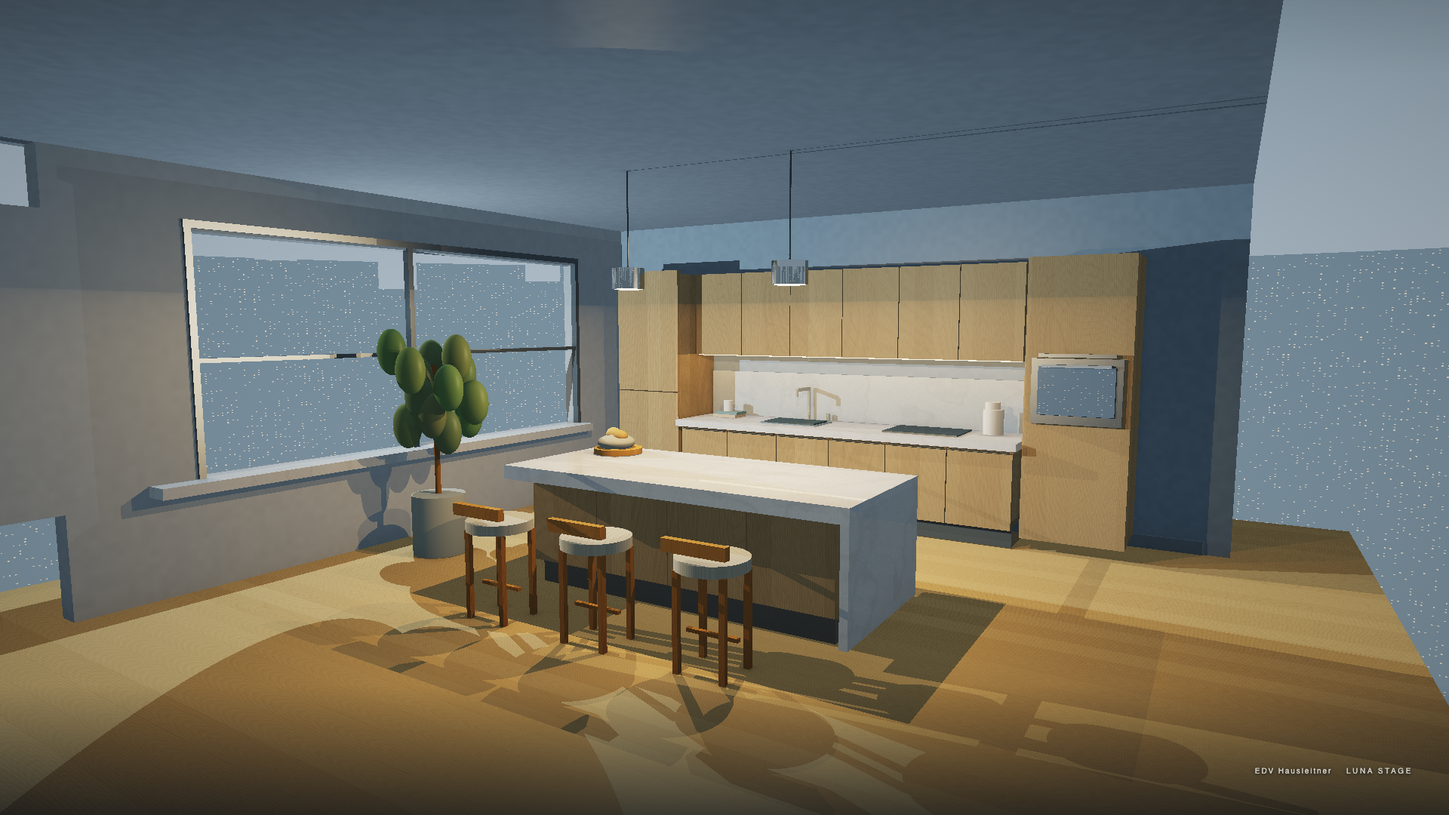
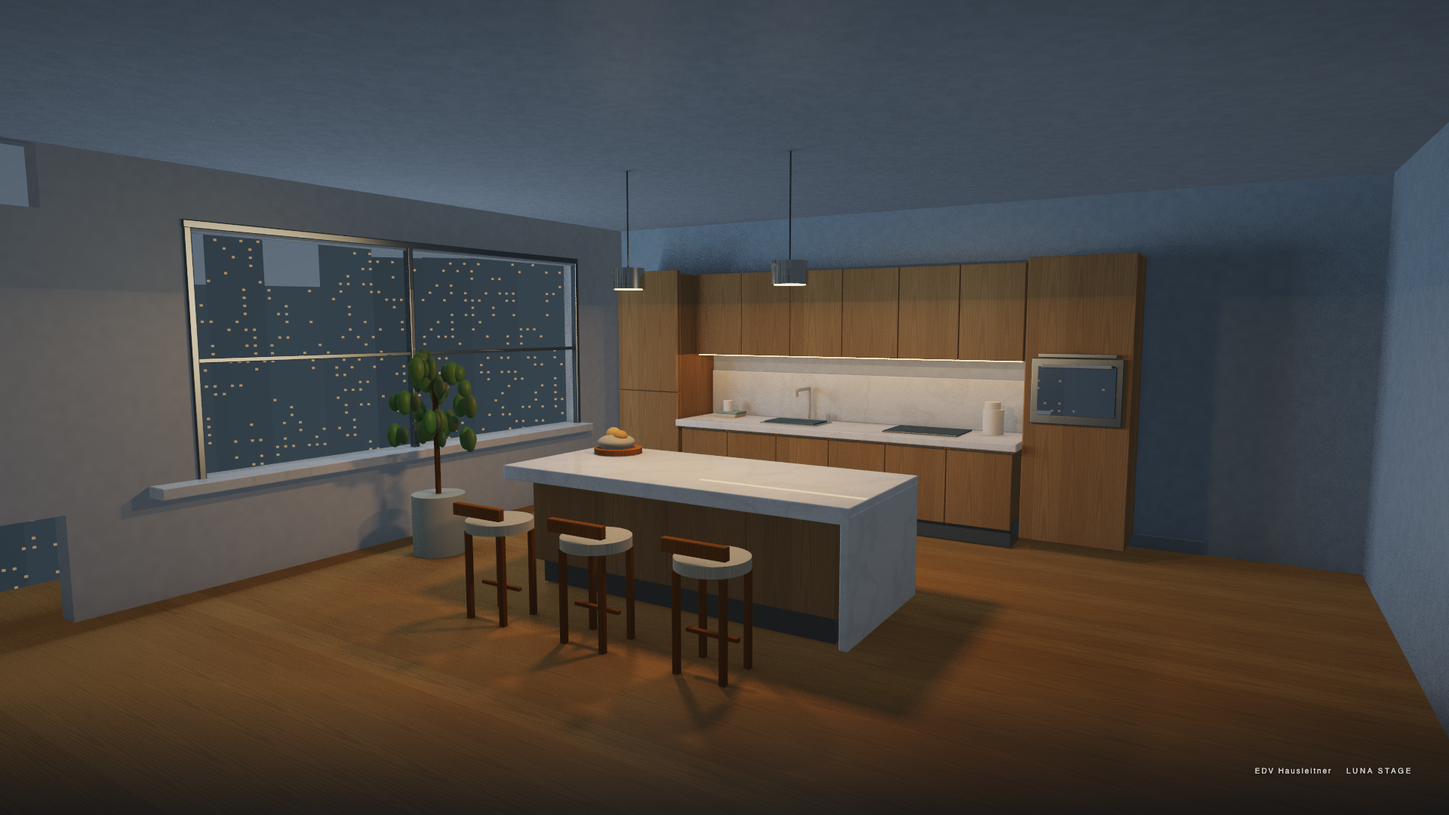
Deploy visual refinement 1 and complete interaction evidence

diff --git a/index.html b/index.html
@@ -25,15 +25,16 @@
 const $=id=>document.getElementById(id), clamp=(v,a=0,b=1)=>Math.max(a,Math.min(b,v)),mix=(a,b,t)=>a+(b-a)*t,smooth=t=>t*t*(3-2*t);
 const V={add:(a,b)=>a.map((v,i)=>v+b[i]),sub:(a,b)=>a.map((v,i)=>v-b[i]),mul:(a,s)=>a.map(v=>v*s),dot:(a,b)=>a.reduce((s,v,i)=>s+v*b[i],0),cross:(a,b)=>[a[1]*b[2]-a[2]*b[1],a[2]*b[0]-a[0]*b[2],a[0]*b[1]-a[1]*b[0]],norm:a=>{let l=Math.hypot(...a)||1;return a.map(v=>v/l)},lerp:(a,b,t)=>a.map((v,i)=>mix(v,b[i],t))};
 const Luna=window.Luna={theme:{accent:'#0078C8',navy:'#101b25',oak:'#a47d4f',chalk:'#e9e1d3'},gpu:{ready:false,backend:'Canvas2D',errors:[],frames:0,invalidate:()=>{}},cam:{},scene:{},hud:{},store:{key:'luna.stage.v1'}};
-Luna.store.read=()=>{try{const o=JSON.parse(localStorage.getItem(Luna.store.key)||'null');return o&&o.version===1?{material:o.material===1?1:0,sun:Number.isFinite(o.sun)?clamp(o.sun):.76,price:o.price===true}:null}catch{return null}};
-Luna.store.write=()=>{try{localStorage.setItem(Luna.store.key,JSON.stringify({version:1,material:Luna.scene.material,sun:Luna.scene.sun,price:Luna.scene.price}));return true}catch{return false}};
+Luna.store.read=()=>{try{const o=JSON.parse(localStorage.getItem(Luna.store.key)||'null');return o&&o.version===1?{material:o.material===1?1:0,sun:Number.isFinite(o.sun)?clamp(o.sun):.76,price:o.price===true,chapter:Number.isInteger(o.chapter)?clamp(o.chapter,0,5):0}:null}catch{return null}};
+Luna.store.write=()=>{try{localStorage.setItem(Luna.store.key,JSON.stringify({version:1,material:Luna.scene.material,sun:Luna.scene.sun,price:Luna.scene.price,chapter:Luna.cam.chapter}));return true}catch{return false}};
 const saved=Luna.store.read();Object.assign(Luna.scene,{family:'Berger',runMM:3600,priceEUR:18740,vat:20,week:38,material:saved?.material||0,sun:saved?.sun??.76,price:saved?.price||false,ceo:false,objects:[]});
 /* Primitive ABI: centre.xyz/type, half-extents.xyz/material, albedo.xyz/shadow. 0 box, 1 ellipsoid, 2 Y-cylinder. */
 const O=Luna.scene.objects;function box(c,s,m=1,col=[1,1,1],shadow=1){O.push({c,s,m,col,type:0,shadow});return O.length-1}function ell(c,s,m,col){O.push({c,s,m,col,type:1,shadow:1})}function cyl(c,r,h,m,col=[1,1,1]){O.push({c,s:[r,h/2,r],m,col,type:2,shadow:1})}
 // Materials: plaster 1, oak/variant 2, stone 3, charcoal 4, metal 5, emission 6, ceramic 7, fixed oak 8, city 9, fabric 10.
 box([0,-.07,.7],[4.5,.07,5.2],8,[.72,.68,.57],0);
-box([0,1.65,-2.86],[3.5,1.65,.07],1,[.28,.33,.35],0);
-box([0,3.27,.0],[3.5,.06,4.5],1,[.38,.40,.40],0);
+box([.5,1.65,-2.86],[4.0,1.65,.07],1,[.28,.33,.35],0);
+box([.5,3.27,.0],[4.0,.06,4.5],1,[.38,.40,.40],0);
+box([4.48,1.65,1.5],[.06,1.65,4.35],1,[.26,.30,.32],0);
 // Window wall, open light aperture. No transparent box covering the view.
 box([-3.33,.40,.1],[.09,.40,3.1],1,[.52,.53,.50],0);box([-3.33,3.01,.1],[.09,.28,3.1],1,[.52,.53,.50],0);
 box([-3.33,1.77,-2.5],[.09,1.02,.58],1,[.52,.53,.5],0);box([-3.33,1.77,3.1],[.09,1.02,.76],1,[.52,.53,.5],0);
@@ -79,7 +80,7 @@ for(const x of [-.62,.79]){cyl([x,2.83,.39],.006,.80,4,[.08,.10,.1]);cyl([x,2.39
 for(const x of [-.85,.02,.9]){for(const dx of [-.16,.16])for(const dz of [-.14,.14])box([x+dx,.31,1.56+dz],[.019,.31,.019],8,[.46,.30,.15]);box([x,.22,1.56],[.18,.012,.016],8,[.46,.30,.15]);cyl([x,.66,1.56],.23,.07,10,[.57,.51,.38]);box([x,.78,1.75],[.218,.04,.025],8,[.55,.38,.20]);}
 // Leafy olive tree by the window, modelled geometry rather than an image.
 cyl([-2.55,.27,.70],.23,.53,7,[.42,.42,.34]);cyl([-2.55,1.00,.70],.024,1.36,8,[.32,.23,.12]);
-for(let i=0;i<15;i++){const a=i*2.4,r=.14+(i%3)*.10,y=1.1+i*.05;ell([-2.55+Math.cos(a)*r,y,.70+Math.sin(a)*r],[.15,.20,.10],7,[.17+(i%2)*.03,.23+(i%3)*.025,.11]);}
+for(let i=0;i<42;i++){const a=i*2.39996,r=.07+(i%7)*.047,y=1.03+(i%13)*.057;ell([-2.55+Math.cos(a)*r,y,.70+Math.sin(a)*r],[.043+(i%3)*.014,.075+(i%2)*.030,.033+(i%4)*.011],7,[.12+(i%3)*.02,.19+(i%4)*.022,.075]);}
 // Small skirting line makes the wall contact explicit.
 box([0,.062,-2.766],[3.30,.06,.012],1,[.25,.28,.28]);
 Luna.scene.bounds=()=>({runMM:3600,modules:6,moduleMM:600,objects:O.length});
@@ -88,7 +89,7 @@ Luna.cam.chapters=[
 {name:'Holz',eye:[1.00,1.26,2.48],to:[-.46,.72,.25],end:[.62,1.17,2.02],sun:.06,fov:45},
 {name:'Abend',eye:[3.12,1.94,4.8],to:[-.23,1.27,-.48],end:[2.88,1.87,4.5],sun:.94,fov:51},
 {name:'Oberfläche',eye:[2.50,1.74,3.80],to:[.0,1.10,-.48],end:[2.16,1.73,3.63],sun:.30,fov:51},
-{name:'Zahl',eye:[2.32,2.65,3.5],to:[.12,.91,.38],end:[2.03,2.45,3.21],sun:.72,fov:43},
+{name:'Zahl',eye:[.94,2.70,3.47],to:[.12,.97,.25],end:[.70,2.58,3.25],sun:.79,fov:47},
 {name:'Stille',eye:[3.4,2.03,5.48],to:[-.30,1.32,-.52],end:[3.4,2.03,5.48],sun:.84,fov:53}
 ];
 Object.assign(Luna.cam,{chapter:0,time:0,duration:48,playing:!matchMedia('(prefers-reduced-motion: reduce)').matches,eye:[3.7,1.92,5.95],to:[-.25,1.30,-.60],fov:51,manual:false,transition:null});
@@ -115,11 +116,11 @@ let woodPattern=null;function makeWood(){let c=document.createElement('canvas');
 makeWood();
 Luna.gpu.drawStill=(canvas,chapter=Luna.cam.chapter,thumb=false)=>{const g=canvas.getContext('2d'),w=canvas.width,h=canvas.height,old={eye:Luna.cam.eye,to:Luna.cam.to,fov:Luna.cam.fov};if(thumb){Luna.cam.eye=cs[chapter].eye;Luna.cam.to=cs[chapter].to;Luna.cam.fov=cs[chapter].fov}const evening=cs[chapter].sun,m=chapter===3?1:Luna.scene.material;let bg=g.createLinearGradient(0,0,w,h);bg.addColorStop(0,evening>.5?'#647780':'#bacad0');bg.addColorStop(1,'#1a2630');g.fillStyle=bg;g.fillRect(0,0,w,h);const faces=[];for(const o of O){let s=o.s,c=o.c;const vertices=[[-1,-1,-1],[1,-1,-1],[1,1,-1],[-1,1,-1],[-1,-1,1],[1,-1,1],[1,1,1],[-1,1,1]].map(p=>V.add(c,p.map((v,j)=>v*s[j])));for(const [ids,n] of [[[4,5,6,7],[0,0,1]],[[1,0,3,2],[0,0,-1]],[[0,4,7,3],[-1,0,0]],[[5,1,2,6],[1,0,0]],[[7,6,2,3],[0,1,0]],[[0,1,5,4],[0,-1,0]]]){const p=ids.map(i=>Luna.cam.project(vertices[i],w,h));if(p.some(v=>v.z<.1))continue;if(V.dot(n,V.sub(Luna.cam.eye,c))<0)continue;faces.push({p,d:p.reduce((s,v)=>s+v.z,0)/4,o,n})}}faces.sort((a,b)=>b.d-a.d);for(const f of faces){const {o,n,p}=f;let col=o.col,wood=o.m===8||(o.m===2&&!m);if(o.m===2)col=m?[.72,.70,.63]:[.62,.45,.28];if(o.m===3)col=o.col;if(o.m===6)col=[1,.78,.40];let k=(n[1]>.5?1:n[0]<-.5?.88:.69)*(1-evening*.27);g.beginPath();p.forEach((v,i)=>i?g.lineTo(v.x,v.y):g.moveTo(v.x,v.y));g.closePath();g.fillStyle='rgb('+col.map(v=>Math.round(clamp(v*k)*255)).join(',')+')';g.fill();if(wood){g.save();g.clip();g.globalAlpha=.36;g.fillStyle=g.createPattern(woodPattern,'repeat');g.fillRect(0,0,w,h);g.restore()}g.strokeStyle='rgba(9,17,21,.15)';g.lineWidth=.45;g.stroke()}if(!thumb){g.fillStyle='rgba(7,15,24,.10)';g.fillRect(0,0,w,h)}Luna.cam.eye=old.eye;Luna.cam.to=old.to;Luna.cam.fov=old.fov};
 function sizeStill(){let c=$('still');c.width=Math.min(1920,innerWidth*devicePixelRatio);c.height=Math.min(1080,innerHeight*devicePixelRatio);Luna.gpu.drawStill(c)}
-Luna.cam.apply(0);if(params.has('chapter'))Luna.cam.goto(clamp(Number(params.get('chapter'))-1,0,5),false);if(params.has('paused'))Luna.cam.playing=false;if(forcedFallback)Luna.cam.playing=false;
+Luna.cam.apply(0);if(saved&&!params.has('chapter')){Luna.cam.goto(saved.chapter,false);Object.assign(Luna.scene,{material:saved.material,sun:saved.sun,price:saved.price});Luna.cam.manual=true;}if(params.has('chapter'))Luna.cam.goto(clamp(Number(params.get('chapter'))-1,0,5),false);if(params.has('paused'))Luna.cam.playing=false;if(forcedFallback)Luna.cam.playing=false;
 sizeStill();Luna.gpu.firstImageMS=performance.now();requestAnimationFrame(()=>{Luna.gpu.firstPaintMS=performance.now()});
 /* A glyph texture is sampled in world coordinates by WGSL, so inscriptions receive room lighting and perspective. */
 const atlas=document.createElement('canvas');atlas.width=2048;atlas.height=1024;const ag=atlas.getContext('2d');
-function drawAtlas(){ag.clearRect(0,0,2048,1024);ag.fillStyle='#fff';ag.font='400 22px Segoe UI, Arial';ag.letterSpacing='5px';ag.fillText('F A M I L I E   B E R G E R',90,98);ag.font='300 158px Segoe UI, Arial';ag.fillText('18.740 €',80,278);ag.letterSpacing='0px';ag.font='400 34px Segoe UI, Arial';ag.fillText('inkl. 20 % USt · Montage KW38',90,357);ag.fillStyle='#999';ag.fillRect(90,401,1370,2);ag.font='400 24px Segoe UI, Arial';ag.fillText('E I N   R A U M .   I H R   Z U H A U S E .',90,456);ag.fillStyle='#fff';ag.font='300 66px Segoe UI, Arial';ag.fillText('31 %',90,686);ag.font='400 25px Segoe UI, Arial';ag.fillText('Marge · intern',90,734);ag.font='400 37px Segoe UI, Arial';ag.fillText('F A M I L I E   B E R G E R',80,881);ag.font='400 24px Segoe UI, Arial';ag.fillText('EICHE NATUR  /  3 600 mm',80,932)}drawAtlas();
+function drawAtlas(){ag.clearRect(0,0,2048,1024);ag.fillStyle='#fff';ag.font='400 22px Segoe UI, Arial';ag.letterSpacing='5px';ag.fillText('F A M I L I E   B E R G E R',90,98);ag.font='300 181px Segoe UI, Arial';ag.fillText('18.740 €',80,278);ag.letterSpacing='0px';ag.font='400 49px Segoe UI, Arial';ag.fillText('inkl. 20 % USt · Montage KW38',90,357);ag.fillStyle='#999';ag.fillRect(90,401,1370,2);ag.font='400 24px Segoe UI, Arial';ag.fillText('E I N   R A U M .   I H R   Z U H A U S E .',90,456);ag.fillStyle='#fff';ag.font='300 85px Segoe UI, Arial';ag.fillText('31 %',90,686);ag.font='400 36px Segoe UI, Arial';ag.fillText('Marge · intern',90,734);ag.font='400 37px Segoe UI, Arial';ag.fillText('F A M I L I E   B E R G E R',80,881);ag.font='400 24px Segoe UI, Arial';ag.fillText('EICHE NATUR  /  3 600 mm',80,932)}drawAtlas();
 const shader=`
 struct Params {eye:vec4f, forward:vec4f, right:vec4f, up:vec4f, view:vec4f, state:vec4f};
 struct Obj {centre:vec4f, size:vec4f, col:vec4f};
@@ -128,6 +129,8 @@ struct Hit {t:f32, id:i32, normal:vec3f};
 @group(0) @binding(1) var<storage,read> objects:array<Obj>;
 @group(0) @binding(2) var lettering:texture_2d<f32>;
 @group(0) @binding(3) var letterSampler:sampler;
+@group(0) @binding(4) var history:texture_2d<f32>;
+var<private> sampleSeed:vec3f;
 @vertex fn vs(@builtin(vertex_index) i:u32)->@builtin(position) vec4f {var p=array<vec2f,3>(vec2f(-1,-1),vec2f(3,-1),vec2f(-1,3));return vec4f(p[i],0,1);}
 fn hash(p:vec3f)->f32 {return fract(sin(dot(p,vec3f(127.1,311.7,74.7)))*43758.5453);}
 fn noise(p:vec3f)->f32{let i=floor(p);let f=fract(p);let a=f*f*(3.-2.*f);return mix(mix(mix(hash(i),hash(i+vec3f(1,0,0)),a.x),mix(hash(i+vec3f(0,1,0)),hash(i+vec3f(1,1,0)),a.x),a.y),mix(mix(hash(i+vec3f(0,0,1)),hash(i+vec3f(1,0,1)),a.x),mix(hash(i+vec3f(0,1,1)),hash(i+vec3f(1,1,1)),a.x),a.y),a.z);}
@@ -136,22 +139,29 @@ if(kind==1){let q=p/s;let d=rd/s;let a=dot(d,d);let b=dot(q,d);let cc=dot(q,q)-1
 if(kind==2){let a=dot(rd.xz,rd.xz);let b=dot(p.xz,rd.xz);let cc=dot(p.xz,p.xz)-s.x*s.x;let h=b*b-a*cc;var t=1e5;var n=vec3f(0,1,0);if(h>=0.&&a>.00001){let tt=(-b-sqrt(h))/a;let y=p.y+tt*rd.y;if(tt>.0005&&abs(y)<s.y){t=tt;n=normalize(vec3f(p.x+tt*rd.x,0,p.z+tt*rd.z));}}if(abs(rd.y)>.00001){let tt=(select(-s.y,s.y,rd.y<0.)-p.y)/rd.y;let q=p.xz+tt*rd.xz;if(tt>.0005&&tt<t&&dot(q,q)<s.x*s.x){t=tt;n=vec3f(0,select(-1.,1.,rd.y<0.),0);}}return vec4f(t,n);}
 let inv=1./(rd+vec3f(.0000001));let a=(-s-p)*inv;let b=(s-p)*inv;let near=min(a,b);let far=max(a,b);let tn=max(max(near.x,near.y),near.z);let tf=min(min(far.x,far.y),far.z);if(tf<max(tn,.0005)){return vec4f(1e5,0,0,0);}var t=tn;if(t<.0005){t=tf;}let q=(p+rd*t)/s;var n=vec3f(0,0,sign(q.z));if(abs(q.x)>abs(q.z)&&abs(q.x)>abs(q.y)){n=vec3f(sign(q.x),0,0);}else if(abs(q.y)>abs(q.z)){n=vec3f(0,sign(q.y),0);}return vec4f(t,n);}
 fn trace(ro:vec3f,rd:vec3f,limit:f32,shadows:bool)->Hit{var hit=Hit(limit,-1,vec3f(0));for(var i=0u;i<arrayLength(&objects);i++){let o=objects[i];if(shadows&&o.col.w<.5){continue;}let h=intersect(ro,rd,o);if(h.x<hit.t){hit=Hit(h.x,i32(i),h.yzw);}}return hit;}
-fn sky(rd:vec3f)->vec3f{let day=u.view.z;let y=clamp(rd.y*.7+.43,0.,1.);var c=mix(mix(vec3f(.91,.79,.58),vec3f(.34,.57,.73),y),mix(vec3f(.27,.34,.43),vec3f(.035,.10,.19),y),day);if(rd.y<.07){let k=floor(atan2(rd.z,rd.x)*25.);let height=.025+hash(vec3f(k,2,3))*.11;let building=step(rd.y,height);c=mix(c,mix(vec3f(.30,.37,.39),vec3f(.048,.084,.12),day),building*.84);let wx=fract(atan2(rd.z,rd.x)*230.);let wy=fract(rd.y*390.);let lit=step(.81,hash(vec3f(floor(atan2(rd.z,rd.x)*230.),floor(rd.y*390.),7)));c+=vec3f(.69,.47,.22)*lit*step(.26,wx)*step(wx,.58)*step(.3,wy)*step(wy,.64)*building*day*.9;}return c;}
-fn wood(p:vec3f,n:vec3f,mat:i32)->vec3f{var uv=vec2f(p.x,p.y);if(abs(n.x)>.5){uv=vec2f(p.z,p.y);}if(n.y>.5){uv=vec2f(p.x,p.z);if(mat==8){uv=vec2f(p.z,p.x);}}let board=floor(uv.x/.19);let offset=hash(vec3f(board,f32(mat),1));let x=uv.x*69.+offset*7.;let y=uv.y;let warp=noise(vec3f(uv.x*3.,y*.85,offset))*4.6+sin(y*2.1+offset*9.)*.6;let grain=sin((x+warp)*5.7)*.5+.5;let fine=pow(max(0.,sin((x+warp)*31.)),14.);let pore=noise(vec3f(uv.x*650.,y*14.,offset));let ring=pow(grain,9.);let knot=sin(length(vec2f((uv.x-(board*.19+.095))*45.,(y-.4-offset)*4.))*19.);var c=mix(vec3f(.27,.151,.066),vec3f(.59,.401,.203),.64+offset*.17);c*=.88+.14*grain-.10*ring-.09*fine+.075*pore+.028*knot;if(mat==8){c*=1.13;let seam=smoothstep(.0,.008,min(fract(uv.x/.19),1.-fract(uv.x/.19)));c*=.82+.18*seam;}return c;}
-fn baseColor(p:vec3f,n:vec3f,id:i32)->vec3f {let o=objects[id];let m=i32(o.size.w);var c=o.col.xyz;if(m==2){c=mix(wood(p,n,m),vec3f(.65,.615,.532),u.view.w);}if(m==8){c=wood(p,n,m)*o.col.xyz*1.8;}if(m==1){c*=.94+.09*noise(p*19.)+.026*noise(p*170.);}if(m==3){let v=noise(p*3.6)+noise(p*11.)*.28;let veins=pow(abs(sin(p.x*3.+p.z*3.2+v*5.)),24.);c*=.87+.095*noise(p*95.)+.07*v-.068*veins;}if(m==10){let weave=sin(p.x*510.)*sin(p.z*510.);c*=.88+.10*weave;}return c;}
+fn sky(rd:vec3f)->vec3f{let day=u.view.z;let y=clamp(rd.y*.75+.45,0.,1.);var c=mix(mix(vec3f(.69,.64,.50),vec3f(.30,.46,.57),y),mix(vec3f(.052,.078,.12),vec3f(.007,.021,.052),y),smoothstep(.35,1.,day));
+let az=atan2(rd.z,rd.x);let k=floor(az*19.);let height=.014+hash(vec3f(k,2,3))*.11;
+if(rd.y<height){let distance=hash(vec3f(k,4,8));c=mix(vec3f(.24,.29,.30),vec3f(.012,.025,.040),day)*(.65+distance*.28);let grid=vec2f(az*130.,rd.y*120.);let f=fract(grid);let lit=step(.78,hash(vec3f(floor(grid),7)));let pane=smoothstep(.17,.23,f.x)*(1.-smoothstep(.50,.59,f.x))*smoothstep(.24,.32,f.y)*(1.-smoothstep(.51,.60,f.y));c+=vec3f(.32,.18,.062)*lit*pane*day;}
+return c;}
+fn wood(p:vec3f,n:vec3f,mat:i32)->vec3f{var uv=vec2f(p.x,p.y);if(abs(n.x)>.5){uv=vec2f(p.z,p.y);}if(n.y>.5){uv=vec2f(p.x,p.z);if(mat==8){uv=vec2f(p.z,p.x);}}
+let board=floor(uv.x/.22);let offset=hash(vec3f(board,f32(mat),1));let bx=fract(uv.x/.22)-.5;let yy=uv.y+offset*3.;let warp=noise(vec3f(uv.x*4.,yy*.95,offset))*1.2+sin(yy*2.0+offset*12.)*.14;
+let rings=sqrt(pow(bx*2.4+warp*.16,2.)+pow(yy*.24,2.))*39.;let grain=.5+.5*sin(rings+noise(vec3f(uv.x*80.,yy*3.,offset))*.65);let pores=pow(max(0.,sin(uv.x*1600.+warp*25.)),14.);let variation=noise(vec3f(uv.x*250.,yy*8.,offset));var c=mix(vec3f(.235,.122,.053),vec3f(.42,.268,.124),.49+offset*.24);c*=.85+.23*grain-.15*pow(grain,13.)-.07*pores+.11*variation;
+if(mat==8){c*=.85;let seam=smoothstep(.0,.011,min(fract(uv.x/.22),1.-fract(uv.x/.22)));c*=.89+.11*seam;}return c;}
+fn baseColor(p:vec3f,n:vec3f,id:i32)->vec3f {let o=objects[id];let m=i32(o.size.w);var c=o.col.xyz;if(m==2){c=mix(wood(p,n,m),vec3f(.52,.48,.405),u.view.w);}if(m==8){c=wood(p,n,m)*o.col.xyz*1.8;}if(m==1){c*=.94+.09*noise(p*19.)+.026*noise(p*170.);}if(m==3){let v=noise(p*3.6)+noise(p*11.)*.28;let veins=pow(abs(sin(p.x*3.+p.z*3.2+v*5.)),24.);c*=.87+.095*noise(p*95.)+.07*v-.068*veins;}if(m==10){let weave=sin(p.x*510.)*sin(p.z*510.);c*=.88+.10*weave;}return c;}
 fn glyph(uv:vec2f)->f32{if(any(uv<vec2f(0))||any(uv>vec2f(1))){return 0.;}return textureSampleLevel(lettering,letterSampler,uv,0.).a;}
 fn inscription(p:vec3f,n:vec3f,c:vec3f)->vec3f{var col=c;if(n.y>.9&&abs(p.y-.959)<.008&&p.x>-.76&&p.x<1.39&&p.z>-.0&&p.z<1.03){let uv=vec2f((p.x+.76)/2.15,(p.z+.005)/1.05*.77);var a=glyph(uv);if(uv.y<.52){a*=u.state.x;}else{a*=u.state.y;}let edge=glyph(uv+vec2f(.00065,.001))*select(u.state.x,u.state.y,uv.y>.52);col=mix(col,col*.17,a*.88);col+=vec3f(.18,.16,.12)*max(0.,edge-a);}
 if(n.z>.9&&abs(p.z-.926)<.009&&abs(p.x)<1.23&&p.y>.32&&p.y<.77&&u.state.z<.5){let uv=vec2f((p.x+1.13)/2.8, .81+(.75-p.y)*.31);let a=glyph(uv);col=mix(col,col*.42,a*.55);}return col;}
+fn random2(k:f32)->vec2f{return vec2f(hash(sampleSeed+vec3f(k,17,31)),hash(sampleSeed+vec3f(41,k,73)))-.5;}
 fn visibility(p:vec3f,n:vec3f,l:vec3f,d:f32)->f32 {return select(0.,1.,trace(p+n*.002,l,d,true).id<0);}
-fn lighting(p:vec3f,n:vec3f,rd:vec3f,id:i32)->vec3f{let o=objects[id];let m=i32(o.size.w);let day=u.view.z;var base=inscription(p,n,baseColor(p,n,id));if(m==6){return o.col.xyz*(1.+day*2.4);}let wallContact=1.-.23*exp(-max(0.,p.y)*5.);let amb=mix(vec3f(.38,.42,.44),vec3f(.10,.145,.205),day);let up=.66+.34*max(n.y,0.);var col=base*amb*up*wallContact;
+fn lighting(p:vec3f,n:vec3f,rd:vec3f,id:i32)->vec3f{let o=objects[id];let m=i32(o.size.w);let day=u.view.z;var base=inscription(p,n,baseColor(p,n,id));if(m==6){return o.col.xyz*(.7+day*1.8);}let wallContact=1.-.23*exp(-max(0.,p.y)*5.);let amb=mix(vec3f(.40,.42,.42),vec3f(.12,.145,.195),day);let up=.66+.34*max(n.y,0.);var col=base*amb*up*wallContact;
 // Large window: broad, directional diffuse light and geometrically tested contacts.
-let window=vec3f(-3.15,2.15,.55);let wv=window-p;let wl=normalize(wv);let wn=max(dot(n,wl),0.);let wvis=visibility(p,n,wl,length(wv));let win=mix(vec3f(1.28,1.29,1.22),vec3f(.32,.46,.64),day);col+=base*win*wn*wvis*.70;
+let wj=random2(2.);let window=vec3f(-3.15,1.83+wj.x*1.65,.35+wj.y*3.4);let wv=window-p;let wl=normalize(wv);let wn=max(dot(n,wl),0.);let wvis=visibility(p,n,wl,length(wv));let win=mix(vec3f(1.18,1.19,1.13),vec3f(.115,.205,.355),day);col+=base*win*wn*wvis*.70;
 // The moving sun is admitted only through the physical window aperture.
-let sl=normalize(vec3f(-1.,mix(.79,.21,day),mix(-.32,.20,day)));let t=(-3.28-p.x)/sl.x;let wp=p+sl*t;let aperture=select(0.,1.,wp.y>.86&&wp.y<2.76&&wp.z> -1.9&&wp.z<2.30);let sv=visibility(p,n,sl,15.);col+=base*vec3f(1.8,1.55,1.16)*max(dot(n,sl),0.)*sv*aperture*(1.-day)*1.65;
+let sj=random2(4.)*.028;let sl=normalize(vec3f(-1.,mix(.79,.21,day)+sj.x,mix(-.32,.20,day)+sj.y));let t=(-3.28-p.x)/sl.x;let wp=p+sl*t;let aperture=select(0.,1.,wp.y>.86&&wp.y<2.76&&wp.z> -1.9&&wp.z<2.30);let sv=visibility(p,n,sl,15.);col+=base*vec3f(1.8,1.55,1.16)*max(dot(n,sl),0.)*sv*aperture*pow(1.-day,3.)*1.8;
 // Warm 2700 K pendant pools: shadow rays give contact shadows on the slab.
-for(var j=0;j<2;j++){let lp=vec3f(select(-.62,.79,j==1),2.27,.39);let d=lp-p;let dist=length(d);let ld=d/dist;let nl=max(0.,dot(n,ld));let cone=pow(max(0.,ld.y),.30);let lv=visibility(p,n,ld,dist-.025);let power=mix(.16,1.25,day);col+=base*vec3f(1.,.67,.34)*nl*lv*cone*power/(.55+dist*dist*.44);let h=normalize(ld-rd);let spec=pow(max(0.,dot(n,h)),select(45.,145.,m==5));col+=vec3f(1.,.78,.48)*spec*lv*power*select(.03,.6,m==5||m==4);}
+for(var j=0;j<2;j++){let pj=random2(9.+f32(j))*.22;let lp=vec3f(select(-.62,.79,j==1)+pj.x,2.27,.39+pj.y);let d=lp-p;let dist=length(d);let ld=d/dist;let nl=max(0.,dot(n,ld));let cone=pow(max(0.,ld.y),.30);let lv=visibility(p,n,ld,dist-.025);let power=mix(.04,.76,day);col+=base*vec3f(1.,.57,.255)*nl*lv*cone*power/(.55+dist*dist*.44);let h=normalize(ld-rd);let spec=pow(max(0.,dot(n,h)),select(45.,145.,m==5));col+=vec3f(1.,.78,.48)*spec*lv*power*select(.03,.6,m==5||m==4);}
 // Strip illumination, with vertical falloff and dark countertop contact.
-if(p.z< -1.86&&abs(p.x)<1.88&&p.y<1.70&&p.y>.88){let ld=normalize(vec3f(0.,1.696-p.y,-2.35-p.z));let light=exp(-length(vec2f(p.y-1.69,p.z+2.38))*1.5);col+=base*vec3f(1.0,.65,.32)*light*(.24+day*.9)*max(.28,dot(n,ld));}
+if(p.z< -1.86&&abs(p.x)<1.88&&p.y<1.70&&p.y>.88){let ld=normalize(vec3f(0.,1.696-p.y,-2.35-p.z));let light=exp(-length(vec2f(p.y-1.69,p.z+2.38))*1.5);col+=base*vec3f(1.0,.55,.24)*light*(.24+day*.9)*max(.28,dot(n,ld));}
 // Recess AO: analytically darken points close to other solid bounds. Distance-bounded and stable.
 var ao=1.;if(m!=6){for(var i=0u;i<arrayLength(&objects);i++){if(i==u32(id)||objects[i].col.w<.5){continue;}let ob=objects[i];let q=abs(p+n*.03-ob.centre.xyz)-ob.size.xyz;let dd=length(max(q,vec3f(0.)));if(dd<.12){let align=max(.0,dot(n,normalize(ob.centre.xyz-p)));ao*=1.-exp(-dd*36.)*align*.23;}}}col*=max(.40,ao);
 if(m==3||m==5||m==4){let rr=reflect(rd,n);let rh=trace(p+n*.004,rr,18.,false);var reflected=sky(rr);if(rh.id>=0){reflected=baseColor(p+n*.004+rr*rh.t,rh.normal,rh.id)*mix(vec3f(.4,.43,.44),vec3f(.20,.25,.30),day);if(i32(objects[rh.id].size.w)==6){reflected=objects[rh.id].col.xyz*1.9;}}let fres=pow(1.-max(0.,dot(n,-rd)),5.);let reflectivity=select(.055,.4,m==5);col=mix(col,reflected,clamp(reflectivity+fres*.38,0.,.70));}
@@ -159,12 +169,25 @@ if(m==3||m==5||m==4){let rr=reflect(rd,n);let rh=trace(p+n*.004,rr,18.,false);va
 if(m==4&&n.y>.8&&p.y>.99&&p.z< -2.14&&p.x>.5&&p.x<1.3){for(var j=0;j<4;j++){let cc=vec2f(.71+f32(j%2)*.36,-2.57+f32(j/2)*.29);let r=abs(length(p.xz-cc)-.10);col+=vec3f(.055)*exp(-r*900.);}}
 return col;}
 fn tonemap(x:vec3f)->vec3f {let a=x*(2.51*x+.03);let b=x*(2.43*x+.59)+.14;return pow(clamp(a/b,vec3f(0),vec3f(1)),vec3f(1./2.2));}
-@fragment fn fs(@builtin(position) pixel:vec4f)->@location(0) vec4f {let uv=(pixel.xy/u.view.xy)*2.-1.;let rd=normalize(u.forward.xyz+u.right.xyz*uv.x*u.eye.w+u.up.xyz*(-uv.y)*u.forward.w);let hit=trace(u.eye.xyz,rd,80.,false);var col=sky(rd);if(hit.id>=0){let p=u.eye.xyz+rd*hit.t;col=lighting(p,hit.normal,rd,hit.id);col=mix(col,sky(rd)*.35,1.-exp(-hit.t*.0025));}col=tonemap(col*1.22);let vign=1.-.115*dot(uv,uv);col*=vign;col+=(hash(vec3f(pixel.xy,u.state.w))-.5)/450.;return vec4f(col,1.);}
+@fragment fn fs(@builtin(position) pixel:vec4f)->@location(0) vec4f {sampleSeed=vec3f(pixel.xy,u.state.w);let jitter=random2(53.);let uv=((pixel.xy+jitter)/u.view.xy)*2.-1.;let rd=normalize(u.forward.xyz+u.right.xyz*uv.x*u.eye.w+u.up.xyz*(-uv.y)*u.forward.w);let hit=trace(u.eye.xyz,rd,80.,false);var col=sky(rd);if(hit.id>=0){let p=u.eye.xyz+rd*hit.t;var normal=hit.normal;let ob=objects[hit.id];if(i32(ob.centre.w)==0&&ob.col.w>.5){let r=min(.009,min(min(ob.size.x,ob.size.y),ob.size.z)*.4);let q=abs(p-ob.centre.xyz)-ob.size.xyz+vec3f(r);normal=normalize(sign(p-ob.centre.xyz)*max(q,vec3f(0.00001)));}col=lighting(p,normal,rd,hit.id);col=mix(col,sky(rd)*.2,1.-exp(-hit.t*.001));}let prev=textureLoad(history,vec2i(pixel.xy),0).rgb;col=mix(prev,col,1./(u.state.w+1.));return vec4f(col,1.);}
 `;
+const presentShader=`
+@group(0) @binding(0) var hdr:texture_2d<f32>;
+@vertex fn vs(@builtin(vertex_index) i:u32)->@builtin(position) vec4f{var p=array<vec2f,3>(vec2f(-1,-1),vec2f(3,-1),vec2f(-1,3));return vec4f(p[i],0,1);}
+@fragment fn fs(@builtin(position) p:vec4f)->@location(0) vec4f{let uv=p.xy/vec2f(textureDimensions(hdr))*2.-1.;let x=textureLoad(hdr,vec2i(p.xy),0).rgb*.99;let a=x*(2.51*x+.03);let b=x*(2.43*x+.59)+.14;let color=pow(clamp(a/b,vec3f(0),vec3f(1)),vec3f(1./2.2));return vec4f(color*(1.-.08*dot(uv,uv)),1.);}`;
 let device,context,pipeline,uniform,bindGroup,dirty=true,lastFrame=0,raf=0,settleAt=0;
+let presentPipeline,format,staticEntries,histories=[],groups=[],presentGroups=[],historySize='',stateKey='',sampleCount=0,lastSurface;
+Luna.gpu.samples=0;Luna.gpu.targetSamples=28;
 Luna.gpu.invalidate=()=>{dirty=true;settleAt=performance.now();if(!Luna.gpu.ready){Luna.gpu.drawStill($('still'));Luna.hud.draw()}if(!raf)raf=requestAnimationFrame(tick)};
-Luna.gpu.render=(width,height)=>{if(!Luna.gpu.ready)return;let c=$('room');if(width&&height){c.width=width;c.height=height}else{const moving=Luna.cam.playing||!!Luna.cam.transition||performance.now()-settleAt<130;let scale=moving?.68:Math.min(devicePixelRatio,1.25);const maxW=moving?1280:1920;const ratio=Math.min(scale,maxW/innerWidth);c.width=Math.max(1,Math.round(innerWidth*ratio));c.height=Math.max(1,Math.round(innerHeight*ratio))}let b=Luna.cam.basis(),s=Luna.scene;const values=new Float32Array([...Luna.cam.eye,b.tan*c.width/c.height,...b.f,b.tan,...b.r,0,...b.u,0,c.width,c.height,s.sun,s.material,s.price?1:0,s.ceo?1:0,Luna.cam.chapter===5?1:0,0]);device.queue.writeBuffer(uniform,0,values);const enc=device.createCommandEncoder(),pass=enc.beginRenderPass({colorAttachments:[{view:context.getCurrentTexture().createView(),clearValue:{r:.06,g:.1,b:.14,a:1},loadOp:'clear',storeOp:'store'}]});pass.setPipeline(pipeline);pass.setBindGroup(0,bindGroup);pass.draw(3);pass.end();device.queue.submit([enc.finish()]);Luna.gpu.frames++;};
-Luna.gpu.init=async()=>{if(forcedFallback)throw new Error('Canvas2D explicitly selected');if(!navigator.gpu)throw new Error('WebGPU unavailable');const adapter=await navigator.gpu.requestAdapter({powerPreference:'high-performance'});if(!adapter)throw new Error('No WebGPU adapter');device=await adapter.requestDevice();Luna.gpu.adapter={vendor:adapter.info?.vendor,architecture:adapter.info?.architecture,device:adapter.info?.device,description:adapter.info?.description};device.addEventListener('uncapturederror',e=>{Luna.gpu.errors.push(e.error.message);console.error(e.error.message)});device.lost.then(info=>{Luna.gpu.errors.push(info.message);Luna.gpu.fallback('WebGPU-Verbindung unterbrochen')});context=$('room').getContext('webgpu');const format=navigator.gpu.getPreferredCanvasFormat();context.configure({device,format,alphaMode:'opaque'});const module=device.createShaderModule({code:shader});const info=await module.getCompilationInfo();const errs=info.messages.filter(m=>m.type==='error');if(errs.length)throw new Error(errs.map(e=>e.message+' at '+e.lineNum).join('\n'));pipeline=await device.createRenderPipelineAsync({layout:'auto',vertex:{module,entryPoint:'vs'},fragment:{module,entryPoint:'fs',targets:[{format}]},primitive:{topology:'triangle-list'}});uniform=device.createBuffer({size:96,usage:GPUBufferUsage.UNIFORM|GPUBufferUsage.COPY_DST});const data=new Float32Array(O.flatMap(o=>[...o.c,o.type,...o.s,o.m,...o.col,o.shadow]));const objects=device.createBuffer({size:data.byteLength,usage:GPUBufferUsage.STORAGE|GPUBufferUsage.COPY_DST});device.queue.writeBuffer(objects,0,data);const tex=device.createTexture({size:[2048,1024],format:'rgba8unorm',usage:GPUTextureUsage.TEXTURE_BINDING|GPUTextureUsage.COPY_DST|GPUTextureUsage.RENDER_ATTACHMENT});device.queue.copyExternalImageToTexture({source:atlas},{texture:tex},[2048,1024]);bindGroup=device.createBindGroup({layout:pipeline.getBindGroupLayout(0),entries:[{binding:0,resource:{buffer:uniform}},{binding:1,resource:{buffer:objects}},{binding:2,resource:tex.createView()},{binding:3,resource:device.createSampler({magFilter:'linear',minFilter:'linear'})}]});Luna.gpu.ready=true;Luna.gpu.backend='WebGPU';Luna.gpu.render();await device.queue.onSubmittedWorkDone();Luna.gpu.firstGPUMS=performance.now();document.body.classList.add('gpu');Luna.gpu.invalidate()};
+Luna.gpu.render=(width,height)=>{if(!Luna.gpu.ready)return;let c=$('room'),w=width,h=height;if(!w||!h){const moving=Luna.cam.playing||!!Luna.cam.transition||performance.now()-settleAt<130;const ratio=Math.min(moving?.77:Math.min(devicePixelRatio,1.25),(moving?1440:1920)/innerWidth);w=Math.max(1,Math.round(innerWidth*ratio));h=Math.max(1,Math.round(innerHeight*ratio))}if(c.width!==w)c.width=w;if(c.height!==h)c.height=h;
+if(historySize!==w+'x'+h){for(const t of histories)t.destroy();histories=[0,1].map(()=>device.createTexture({size:[w,h],format:'rgba16float',usage:GPUTextureUsage.TEXTURE_BINDING|GPUTextureUsage.RENDER_ATTACHMENT}));groups=histories.map(t=>device.createBindGroup({layout:pipeline.getBindGroupLayout(0),entries:[...staticEntries,{binding:4,resource:t.createView()}]}));presentGroups=histories.map(t=>device.createBindGroup({layout:presentPipeline.getBindGroupLayout(0),entries:[{binding:0,resource:t.createView()}]}));historySize=w+'x'+h;sampleCount=0;stateKey='';}
+const b=Luna.cam.basis(),s=Luna.scene;const key=[w,h,...Luna.cam.eye,...Luna.cam.to,Luna.cam.fov,s.sun,s.material,s.price,s.ceo,Luna.cam.chapter].join('|');if(key!==stateKey){sampleCount=0;stateKey=key;}
+const read=sampleCount%2,write=1-read;const values=new Float32Array([...Luna.cam.eye,b.tan*w/h,...b.f,b.tan,...b.r,0,...b.u,0,w,h,s.sun,s.material,s.price?1:0,s.ceo?1:0,Luna.cam.chapter===5?1:0,sampleCount]);device.queue.writeBuffer(uniform,0,values);
+const enc=device.createCommandEncoder(),pass=enc.beginRenderPass({colorAttachments:[{view:histories[write].createView(),loadOp:'clear',storeOp:'store'}]});pass.setPipeline(pipeline);pass.setBindGroup(0,groups[read]);pass.draw(3);pass.end();lastSurface=context.getCurrentTexture();const display=enc.beginRenderPass({colorAttachments:[{view:lastSurface.createView(),loadOp:'clear',storeOp:'store'}]});display.setPipeline(presentPipeline);display.setBindGroup(0,presentGroups[write]);display.draw(3);display.end();device.queue.submit([enc.finish()]);sampleCount++;Luna.gpu.samples=sampleCount;Luna.gpu.frames++;};
+Luna.gpu.init=async()=>{if(forcedFallback)throw new Error('Canvas2D explicitly selected');if(!navigator.gpu)throw new Error('WebGPU unavailable');const adapter=await navigator.gpu.requestAdapter({powerPreference:'high-performance'});if(!adapter)throw new Error('No WebGPU adapter');device=await adapter.requestDevice();Luna.gpu.adapter={vendor:adapter.info?.vendor,architecture:adapter.info?.architecture,device:adapter.info?.device,description:adapter.info?.description};device.addEventListener('uncapturederror',e=>{Luna.gpu.errors.push(e.error.message);console.error(e.error.message)});device.lost.then(info=>{Luna.gpu.errors.push(info.message);Luna.gpu.fallback('WebGPU-Verbindung unterbrochen')});context=$('room').getContext('webgpu');format=navigator.gpu.getPreferredCanvasFormat();context.configure({device,format,alphaMode:'opaque',usage:GPUTextureUsage.RENDER_ATTACHMENT|GPUTextureUsage.COPY_SRC});const module=device.createShaderModule({code:shader});const info=await module.getCompilationInfo();const errs=info.messages.filter(m=>m.type==='error');if(errs.length)throw new Error(errs.map(e=>e.message+' at '+e.lineNum).join('\n'));pipeline=await device.createRenderPipelineAsync({layout:'auto',vertex:{module,entryPoint:'vs'},fragment:{module,entryPoint:'fs',targets:[{format:'rgba16float'}]},primitive:{topology:'triangle-list'}});
+const pm=device.createShaderModule({code:presentShader});presentPipeline=await device.createRenderPipelineAsync({layout:'auto',vertex:{module:pm,entryPoint:'vs'},fragment:{module:pm,entryPoint:'fs',targets:[{format}]},primitive:{topology:'triangle-list'}});
+uniform=device.createBuffer({size:96,usage:GPUBufferUsage.UNIFORM|GPUBufferUsage.COPY_DST});const data=new Float32Array(O.flatMap(o=>[...o.c,o.type,...o.s,o.m,...o.col,o.shadow]));const objects=device.createBuffer({size:data.byteLength,usage:GPUBufferUsage.STORAGE|GPUBufferUsage.COPY_DST});device.queue.writeBuffer(objects,0,data);const tex=device.createTexture({size:[2048,1024],format:'rgba8unorm',usage:GPUTextureUsage.TEXTURE_BINDING|GPUTextureUsage.COPY_DST|GPUTextureUsage.RENDER_ATTACHMENT});device.queue.copyExternalImageToTexture({source:atlas},{texture:tex},[2048,1024]);staticEntries=[{binding:0,resource:{buffer:uniform}},{binding:1,resource:{buffer:objects}},{binding:2,resource:tex.createView()},{binding:3,resource:device.createSampler({magFilter:'linear',minFilter:'linear'})}];Luna.gpu.ready=true;Luna.gpu.backend='WebGPU';Luna.gpu.render();await device.queue.onSubmittedWorkDone();Luna.gpu.firstGPUMS=performance.now();document.body.classList.add('gpu');Luna.gpu.invalidate()};
+Luna.gpu.readPixels=async(w=1920,h=1080)=>{for(let i=0;i<32;i++)Luna.gpu.render(w,h);const pitch=Math.ceil(w*4/256)*256;const buf=device.createBuffer({size:pitch*h,usage:GPUBufferUsage.COPY_DST|GPUBufferUsage.MAP_READ});const enc=device.createCommandEncoder();enc.copyTextureToBuffer({texture:lastSurface},{buffer:buf,bytesPerRow:pitch,rowsPerImage:h},[w,h]);device.queue.submit([enc.finish()]);await buf.mapAsync(GPUMapMode.READ);const raw=new Uint8Array(buf.getMappedRange()),data=new Uint8ClampedArray(w*h*4);for(let y=0;y<h;y++)data.set(raw.subarray(y*pitch,y*pitch+w*4),y*w*4);if(format.startsWith('bgra'))for(let i=0;i<data.length;i+=4){let b=data[i];data[i]=data[i+2];data[i+2]=b;}buf.unmap();buf.destroy();return new ImageData(data,w,h)};
 Luna.gpu.fallback=reason=>{Luna.gpu.ready=false;Luna.gpu.backend='Canvas2D';Luna.gpu.reason=reason;Luna.cam.playing=false;document.body.classList.remove('gpu');document.body.classList.add('fallback');for(let i=0;i<6;i++)Luna.gpu.drawStill($('filmstrip').children[i].querySelector('canvas'),i,true);Luna.gpu.drawStill($('still'));Luna.hud.sync();Luna.hud.draw()};
 Luna.hud.draw=()=>{const c=$('inscriptions'),w=innerWidth,h=innerHeight;c.width=Math.round(w*devicePixelRatio);c.height=Math.round(h*devicePixelRatio);const g=c.getContext('2d');g.scale(devicePixelRatio,devicePixelRatio);if(Luna.cam.chapter===5&&!Luna.scene.ceo){$('sun').style.display='none';return}const a=Luna.cam.project([-3.035,.878,-.50]),b=Luna.cam.project([-3.035,.878,1.47]);if(a.z>.1&&b.z>.1){g.strokeStyle='rgba(224,229,219,.58)';g.lineWidth=.85;g.beginPath();g.moveTo(a.x,a.y);g.lineTo(b.x,b.y);g.stroke();let p={x:mix(a.x,b.x,Luna.scene.sun),y:mix(a.y,b.y,Luna.scene.sun)};g.beginPath();g.arc(p.x,p.y,3,0,Math.PI*2);g.fillStyle='#ddd8c4';g.fill();g.font='9px Segoe UI, Arial';g.fillStyle='rgba(229,221,201,.65)';g.fillText(Luna.scene.sun<.45?'MORGENLICHT':'ABENDLICHT',a.x-4,a.y-11);let el=$('sun');el.style.display='';el.style.left=a.x+'px';el.style.top=(a.y-11)+'px';el.style.width=Math.hypot(b.x-a.x,b.y-a.y)+'px';el.style.transform='rotate('+Math.atan2(b.y-a.y,b.x-a.x)+'rad)'}else $('sun').style.display='none';
 // Fallback inscriptions use a projective subdivision rather than a screen-space card.
@@ -173,10 +196,10 @@ $('sun').addEventListener('input',e=>{Luna.scene.sun=Number(e.target.value)/100;
 let pointer=null;function pointerDown(e){if(e.button!==0)return;pointer={x:e.clientX,y:e.clientY,lastX:e.clientX,lastY:e.clientY,moved:false};e.currentTarget.setPointerCapture(e.pointerId)}function pointerMove(e){if(!pointer)return;let dx=e.clientX-pointer.lastX,dy=e.clientY-pointer.lastY;if(Math.hypot(e.clientX-pointer.x,e.clientY-pointer.y)>5)pointer.moved=true;if(pointer.moved&&Luna.gpu.ready){Luna.cam.playing=false;Luna.cam.manual=true;Luna.cam.transition=null;let v=V.sub(Luna.cam.eye,Luna.cam.to),r=Math.hypot(...v),theta=Math.atan2(v[0],v[2])-dx*.0045,phi=clamp(Math.acos(v[1]/r)+dy*.0035,.24,1.53);Luna.cam.eye=V.add(Luna.cam.to,[r*Math.sin(phi)*Math.sin(theta),r*Math.cos(phi),r*Math.sin(phi)*Math.cos(theta)]);Luna.hud.sync();Luna.gpu.invalidate()}pointer.lastX=e.clientX;pointer.lastY=e.clientY}
 function pointerUp(e){if(!pointer)return;const moved=pointer.moved;pointer=null;if(moved)return;let hit=Luna.scene.pick(e.clientX,e.clientY);if(hit.object?.m===2)Luna.scene.cycle();else if(hit.object?.m===3)Luna.scene.togglePrice();else Luna.hud.hint('Berühren Sie eine Front oder die Arbeitsplatte. Ziehen Sie zum Umsehen.')}for(const el of [$('room'),$('still')]){el.addEventListener('pointerdown',pointerDown);el.addEventListener('pointermove',pointerMove);el.addEventListener('pointerup',pointerUp);el.addEventListener('pointercancel',()=>pointer=null);el.addEventListener('wheel',e=>{e.preventDefault();if(!Luna.gpu.ready)return;Luna.cam.playing=false;Luna.cam.manual=true;const d=V.sub(Luna.cam.eye,Luna.cam.to),r=Math.hypot(...d),nr=clamp(r*Math.exp(e.deltaY*.001),1.35,10);Luna.cam.eye=V.add(Luna.cam.to,V.mul(d,nr/r));Luna.hud.sync();Luna.gpu.invalidate()},{passive:false})}
 Luna.hud.fullscreen=async()=>{try{if(document.fullscreenElement)await document.exitFullscreen();else await document.documentElement.requestFullscreen()}catch{Luna.hud.hint('Vollbild ist in diesem Browser nicht freigegeben.')}};
-Luna.gpu.snapshot=async()=>{if(Luna.gpu.snapshotBusy)return;Luna.gpu.snapshotBusy=true;const old={eye:[...Luna.cam.eye],to:[...Luna.cam.to],fov:Luna.cam.fov,chapter:Luna.cam.chapter,time:Luna.cam.time,playing:Luna.cam.playing,manual:Luna.cam.manual,transition:Luna.cam.transition,scene:{sun:Luna.scene.sun,material:Luna.scene.material,price:Luna.scene.price,ceo:Luna.scene.ceo}};try{Luna.cam.goto(2,false);Luna.scene.price=false;Luna.scene.ceo=false;const out=document.createElement('canvas');out.width=1920;out.height=1080;const g=out.getContext('2d');if(Luna.gpu.ready){Luna.gpu.render(1920,1080);await device.queue.onSubmittedWorkDone();g.drawImage($('room'),0,0,1920,1080)}else Luna.gpu.drawStill(out,2);g.fillStyle='rgba(9,18,27,.30)';g.fillRect(0,1018,1920,62);g.font='400 14px Segoe UI, Arial';g.fillStyle='#ddd5c5';g.fillText('STAGE / Berger / Abend',44,1055);g.textAlign='right';g.font='400 12px Segoe UI, Arial';g.fillText('EDV Hausleitner · LUNA STAGE',1876,1055);const blob=await new Promise(resolve=>out.toBlob(resolve,'image/png'));if(!blob)throw Error('PNG export failed');Luna.gpu.lastSnapshot={width:1920,height:1080,type:blob.type,bytes:blob.size};const a=document.createElement('a');const url=URL.createObjectURL(blob);a.href=url;a.download='STAGE-Berger-Abend.png';a.click();setTimeout(()=>URL.revokeObjectURL(url),2000)}catch(e){Luna.hud.hint('Standbild konnte nicht gespeichert werden.');Luna.gpu.errors.push(String(e))}finally{Object.assign(Luna.cam,{eye:old.eye,to:old.to,fov:old.fov,chapter:old.chapter,time:old.time,playing:old.playing,manual:old.manual,transition:old.transition});Object.assign(Luna.scene,old.scene);Luna.gpu.snapshotBusy=false;Luna.hud.sync();Luna.gpu.invalidate()}};
+Luna.gpu.snapshot=async()=>{if(Luna.gpu.snapshotBusy)return;Luna.gpu.snapshotBusy=true;const old={eye:[...Luna.cam.eye],to:[...Luna.cam.to],fov:Luna.cam.fov,chapter:Luna.cam.chapter,time:Luna.cam.time,playing:Luna.cam.playing,manual:Luna.cam.manual,transition:Luna.cam.transition,scene:{sun:Luna.scene.sun,material:Luna.scene.material,price:Luna.scene.price,ceo:Luna.scene.ceo}};try{Luna.cam.goto(2,false);Luna.scene.price=false;Luna.scene.ceo=false;const out=document.createElement('canvas');out.width=1920;out.height=1080;const g=out.getContext('2d');if(Luna.gpu.ready){g.putImageData(await Luna.gpu.readPixels(1920,1080),0,0)}else Luna.gpu.drawStill(out,2);g.fillStyle='rgba(9,18,27,.30)';g.fillRect(0,1018,1920,62);g.font='400 14px Segoe UI, Arial';g.fillStyle='#ddd5c5';g.fillText('STAGE / Berger / Abend',44,1055);g.textAlign='right';g.font='400 12px Segoe UI, Arial';g.fillText('EDV Hausleitner · LUNA STAGE',1876,1055);const blob=await new Promise(resolve=>out.toBlob(resolve,'image/png'));if(!blob)throw Error('PNG export failed');Luna.gpu.lastSnapshot={width:1920,height:1080,type:blob.type,bytes:blob.size};const a=document.createElement('a');const url=URL.createObjectURL(blob);a.href=url;a.download='STAGE-Berger-Abend.png';a.click();setTimeout(()=>URL.revokeObjectURL(url),2000)}catch(e){Luna.hud.hint('Standbild konnte nicht gespeichert werden.');Luna.gpu.errors.push(String(e))}finally{Object.assign(Luna.cam,{eye:old.eye,to:old.to,fov:old.fov,chapter:old.chapter,time:old.time,playing:old.playing,manual:old.manual,transition:old.transition});Object.assign(Luna.scene,old.scene);Luna.gpu.snapshotBusy=false;Luna.hud.sync();Luna.gpu.invalidate()}};
 addEventListener('keydown',e=>{if(e.target.tagName==='INPUT')return;if(e.ctrlKey||e.metaKey||e.altKey)return;const k=e.key.toLowerCase();if(k==='f'){e.preventDefault();Luna.hud.fullscreen()}else if(k==='c'){Luna.scene.ceo=!Luna.scene.ceo;Luna.hud.sync();Luna.gpu.invalidate()}else if(k==='s'){e.preventDefault();Luna.gpu.snapshot()}else if(k===' '){e.preventDefault();Luna.cam.toggle()}else if(k==='escape'){Luna.cam.goto(5)}else if(k==='arrowright'){e.preventDefault();Luna.cam.goto((Luna.cam.chapter+1)%6)}else if(k==='arrowleft'){e.preventDefault();Luna.cam.goto((Luna.cam.chapter+5)%6)}else if(/^[1-6]$/.test(k)){Luna.cam.goto(Number(k)-1)}else if(k==='m'){Luna.scene.cycle()}else if(k==='p'){Luna.scene.togglePrice()}});
 addEventListener('resize',()=>{sizeStill();Luna.gpu.invalidate()});document.addEventListener('visibilitychange',()=>{lastFrame=performance.now();if(!document.hidden)Luna.gpu.invalidate()});
-function tick(now){raf=0;let dt=lastFrame?Math.min((now-lastFrame)/1000,.10):0;lastFrame=now;if(document.hidden)return;if(Luna.gpu.snapshotBusy){raf=requestAnimationFrame(tick);return}let moving=false;if(Luna.cam.playing&&Luna.gpu.ready){Luna.cam.time=Math.min(48,Luna.cam.time+dt);Luna.cam.chapter=Math.min(5,Math.floor(Luna.cam.time/8));Luna.cam.apply(Luna.cam.chapter,(Luna.cam.time%8)/8);if(Luna.cam.time>=48){Luna.cam.playing=false;Luna.cam.apply(5,1)}moving=true;Luna.hud.sync()}if(Luna.cam.transition){let t=clamp((now-Luna.cam.transition.start)/1100),v=Luna.cam.transition.old,c=cs[Luna.cam.chapter];const target=V.lerp(c.eye,c.end,smooth(.2));Luna.cam.eye=V.lerp(v.eye,target,smooth(t));Luna.cam.to=V.lerp(v.to,c.to,smooth(t));Luna.cam.fov=mix(v.fov,c.fov,smooth(t));Luna.scene.sun=mix(v.sun,c.sun,smooth(t));moving=true;if(t===1)Luna.cam.transition=null}if(dirty||moving||now-settleAt<260){if(Luna.gpu.ready)Luna.gpu.render();else Luna.gpu.drawStill($('still'));Luna.hud.draw();dirty=false}if(moving||now-settleAt<300)raf=requestAnimationFrame(tick)}
+function tick(now){raf=0;let dt=lastFrame?Math.min((now-lastFrame)/1000,1.0):0;lastFrame=now;if(document.hidden)return;if(Luna.gpu.snapshotBusy){raf=requestAnimationFrame(tick);return}let moving=false;if(Luna.cam.playing&&Luna.gpu.ready){Luna.cam.time=Math.min(48,Luna.cam.time+dt);Luna.cam.chapter=Math.min(5,Math.floor(Luna.cam.time/8));Luna.cam.apply(Luna.cam.chapter,(Luna.cam.time%8)/8);if(Luna.cam.time>=48){Luna.cam.playing=false;Luna.cam.apply(5,1)}moving=true;Luna.hud.sync()}if(Luna.cam.transition){let t=clamp((now-Luna.cam.transition.start)/1100),v=Luna.cam.transition.old,c=cs[Luna.cam.chapter];const target=V.lerp(c.eye,c.end,smooth(.2));Luna.cam.eye=V.lerp(v.eye,target,smooth(t));Luna.cam.to=V.lerp(v.to,c.to,smooth(t));Luna.cam.fov=mix(v.fov,c.fov,smooth(t));Luna.scene.sun=mix(v.sun,c.sun,smooth(t));moving=true;if(t===1)Luna.cam.transition=null}if(dirty||moving||now-settleAt<260||(Luna.gpu.ready&&Luna.gpu.samples<Luna.gpu.targetSamples)){if(Luna.gpu.ready)Luna.gpu.render();else Luna.gpu.drawStill($('still'));Luna.hud.draw();dirty=false}if(moving||now-settleAt<300||(Luna.gpu.ready&&Luna.gpu.samples<Luna.gpu.targetSamples))raf=requestAnimationFrame(tick)}
 Luna.hud.sync();Luna.hud.draw();Luna.gpu.init().catch(e=>{Luna.gpu.errors.push(String(e));console.warn('LUNA STAGE:',String(e));Luna.gpu.fallback(String(e))});
 </script>
 </body>

diff --git a/qa/verify.py b/qa/verify.py
@@ -34,7 +34,7 @@ with sync_playwright() as p:
         if ceo:page.evaluate('Luna.scene.ceo=true;Luna.hud.sync();Luna.gpu.invalidate()')
         page.wait_for_timeout(600)
         page.evaluate('Luna.gpu.render(1920,1080)')
-        page.wait_for_timeout(450)
+        page.wait_for_function('Luna.gpu.samples>=28',timeout=120000)
         path=out/(('live-' if args.live else '')+name+'.png');page.screenshot(path=str(path))
         report['screenshots'].append({'name':path.name,'sha256':hashlib.sha256(path.read_bytes()).hexdigest()});print('SHOT',path.name,flush=True)
     if report['gpu']['ready']:
